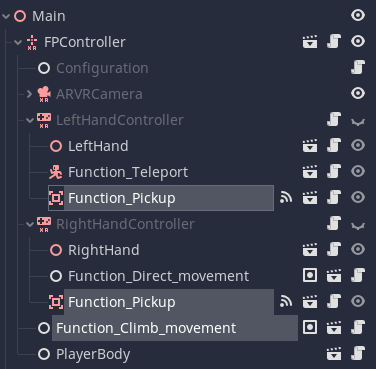
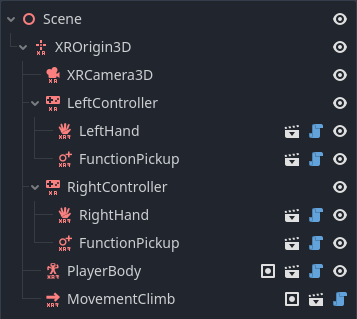
Updated documentation for climbing support and climbable objects.

Changed region(s): [[0.0, 0.0282, 0.986, 0.7053], [0.0616, 0.6489, 0.986, 0.9875], [0.8011, 0.0282, 0.986, 0.3386]]

diff --git a/_docs/movement/climbing.md b/_docs/movement/climbing.md
@@ -31,9 +31,9 @@ As mentioned setting up the climbing system requires a few more steps.
 First, the climbing function uses our pickup function from the Pickup and throw 
 system. You thus need to add the Pickup functions to both hands.
 
-Next you need to add the Climb movement function as a child to the ARVROrigin node,
+Next you need to add the Climb movement function as a child to the XROrigin3D node,
 note that as with other movement functions this will add a PlayerBody node to your
-ARVROrigin node if it doesn't already exist.
+XROrigin3D node if it doesn't already exist.
 
 Your setup should now look like this:
 ![ARVR Climb Movement]({{ site.url }}/assets/img/climbing/arvr_climb_movement.png)
@@ -72,3 +72,10 @@ Now save the scene and add it to your main scene and your player can climb the b
 | Forward Push  | When the player lets go they are pushed away from the object they were holding by this force  |
 | Fling Multiplier  | If the player lets go their current momentum is multiplied by this amount allowing the player to "fling" themselves off a wall.  |
 | Velocity Averages  | The number of velocity samples to take to determine the players velocity when they let go.  |
+
+
+## Additional Resources
+
+The following videos show the creation of a basic XR Player with movement including climbing:
+* [Getting Started](https://youtu.be/VrpySdMcdyw)
+* [Advanced Movement](https://youtu.be/tTdaU57M-0s)
